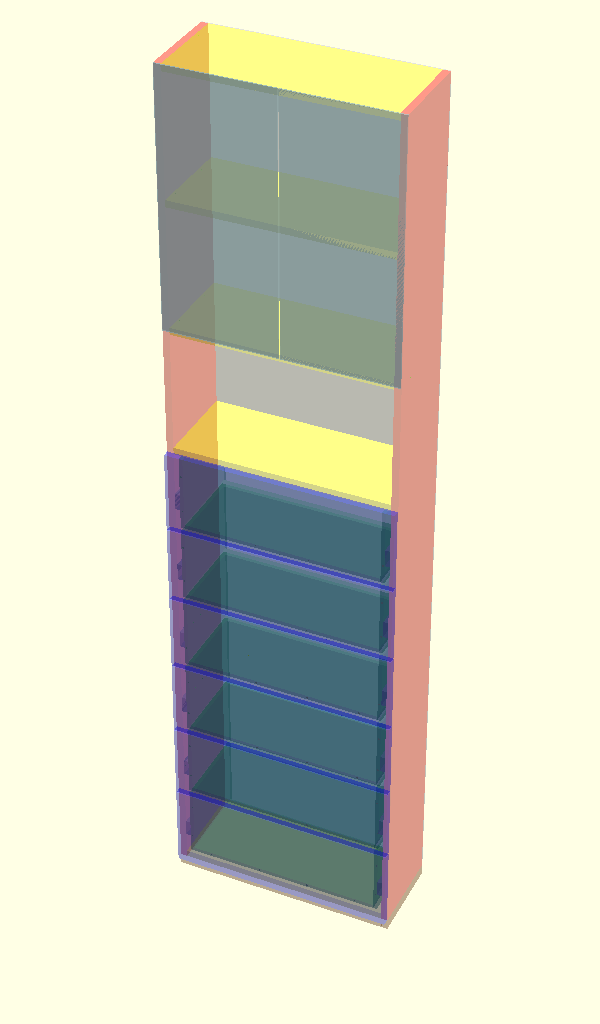
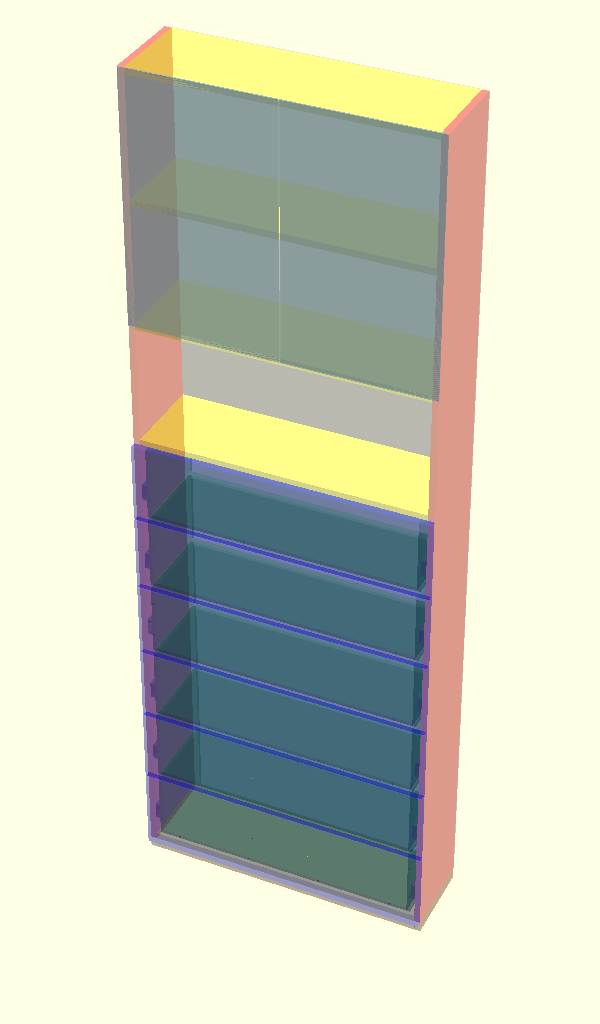
feat(template): Improve CorpusShelfTemplate for sequential drilling
Increases the longest side of the `CorpusShelfTemplate` by `melanine_thickness_main` to facilitate sequential placement for drilling shelf holes in the corpus side, for each successive shelf. The dimension that is currently `bookcase_shelf_gap` is increased by `melanine_thickness_main`. The locations for the holes for the shelf have been adjusted to remain `melanine_thickness_main/2` from the edge.

The following changes were made:
- **`model.scad`**:
  - Modified `corpus_shelf_template_cut` to increase its height by `melanine_thickness_main`.
  - Updated the corresponding `generate_cut_list` entry to reflect the new dimensions.
  - Adjusted the z-coordinate of the holes in `corpus_shelf_template_drill` and `corpus_shelf_template_hole_metadata` to maintain their correct distance from the edge.
- **Documentation**:
  - Updated changelogs in `README.md`, `GEMINI.md`, and `prompt/model-v2.md` to reflect the changes.

Changed region(s): [[0.18, 0.0, 0.84, 0.9062]]

diff --git a/prompt/commit.md b/prompt/commit.md
@@ -1,16 +1,11 @@
-feat(template): Add DrawerFrontOutsideTemplate panel and improve drill markers
+feat(template): Improve CorpusShelfTemplate for sequential drilling
 
-Adds a new `DrawerFrontOutsideTemplate` panel to the model. This template has the same dimensions as the `DrawerFrontStandard` panel and includes all the holes. The `DrawerFrontTemplate` has been renamed to `DrawerFrontInsideTemplate`.
-
-Drill markers in the DXF export have been improved. Crosshair markers for drilling holes are now enclosed in a 3mm circle to make them easier to aim and position.
+Increases the longest side of the `CorpusShelfTemplate` by `melanine_thickness_main` to facilitate sequential placement for drilling shelf holes in the corpus side, for each successive shelf. The dimension that is currently `bookcase_shelf_gap` is increased by `melanine_thickness_main`. The locations for the holes for the shelf have been adjusted to remain `melanine_thickness_main/2` from the edge.
 
 The following changes were made:
 - **`model.scad`**:
-  - Added `DrawerFrontOutsideTemplate` module and related drill and metadata modules.
-  - Renamed `DrawerFrontTemplate` to `DrawerFrontInsideTemplate`.
-  - Updated `panel_names` list, `echo_hole_metadata`, `generate_cut_list`, and `export_panel` modules.
-- **`split_layers.py`**:
-  - Modified `add_hole_annotations_from_csv` to draw a 3mm circle around the crosshair markers for both side-drilled and planar holes.
-  - Moved the crosshair for side-drilled holes to the `DRILL_MARKS` layer.
+  - Modified `corpus_shelf_template_cut` to increase its height by `melanine_thickness_main`.
+  - Updated the corresponding `generate_cut_list` entry to reflect the new dimensions.
+  - Adjusted the z-coordinate of the holes in `corpus_shelf_template_drill` and `corpus_shelf_template_hole_metadata` to maintain their correct distance from the edge.
 - **Documentation**:
   - Updated changelogs in `README.md`, `GEMINI.md`, and `prompt/model-v2.md` to reflect the changes.

diff --git a/artifacts/conversation.md b/artifacts/conversation.md
@@ -92,3 +92,15 @@ You're welcome!
 
 ### Model:
 I have modified the `split_layers.py` script to draw a 3mm circle around the crosshair markers for drilling holes.
+
+### User:
+> Increase the longest side of the CorpusShelfTemplate by melanine_thickness_main so I can use this template for drilling shelf holes in the corpus side by sequentally placing the template next to the previous location, for each successive shelf. Therefore, the dimension that is currently bookcase_shelf_gap should be increased by melanine_thickness_main.
+
+### Model:
+I have increased the height of the `CorpusShelfTemplate` by `melanine_thickness_main` in `model.scad` and updated its cut list entry.
+
+### User:
+> The locations for the holes for the shelf now need to be adjusted as they are now moved away from the edge. They should remain melanine_thickness_main/2 from the edge.
+
+### Model:
+I have adjusted the hole locations in `corpus_shelf_template_drill` and `corpus_shelf_template_hole_metadata` to keep the holes at the correct distance from the edge.

diff --git a/prompt/latest.md b/prompt/latest.md
@@ -1,1 +1,1 @@
-Add code for the DrawerFrontOutsideTemplate panel. The DrawerFrontOutsideTemplate panel should have the same dimensions as the DrawerFrontStandard panel and should include all the holes.
+Increase the longest side of the CorpusShelfTemplate by melanine_thickness_main so I can use this template for drilling shelf holes in the corpus side by sequentally placing the template next to the previous location, for each successive shelf. Therefore, the dimension that is currently bookcase_shelf_gap should be increased by melanine_thickness_main.

diff --git a/prompt/model-v2.md b/prompt/model-v2.md
@@ -246,6 +246,11 @@ python create_order.py --model-id <model_identifier> --service <service_name> --
 
 ## 15. Changelog
 
+### v25
+
+*   **Template Panels:**
+    *   Increased the height of `CorpusShelfTemplate` by `melanine_thickness_main` to facilitate sequential placement for drilling shelf holes in the corpus side.
+
 ### v24
 
 *   **Template Panels:**

diff --git a/GEMINI.md b/GEMINI.md
@@ -150,6 +150,11 @@ The `workflow.ps1` script automates the entire export and conversion process. It
 
 ## Changelog
 
+### v25
+
+*   **Template Panels:**
+    *   Increased the height of `CorpusShelfTemplate` by `melanine_thickness_main` to facilitate sequential placement for drilling shelf holes in the corpus side.
+
 ### v24
 
 *   **Template Panels:**

diff --git a/README.md b/README.md
@@ -166,6 +166,11 @@ The generated PDF templates can be printed to scale and used as physical templat
 
 ## Changelog
 
+### v25
+
+*   **Template Panels:**
+    *   Increased the height of `CorpusShelfTemplate` by `melanine_thickness_main` to facilitate sequential placement for drilling shelf holes in the corpus side.
+
 ### v24
 
 *   **Template Panels:**
